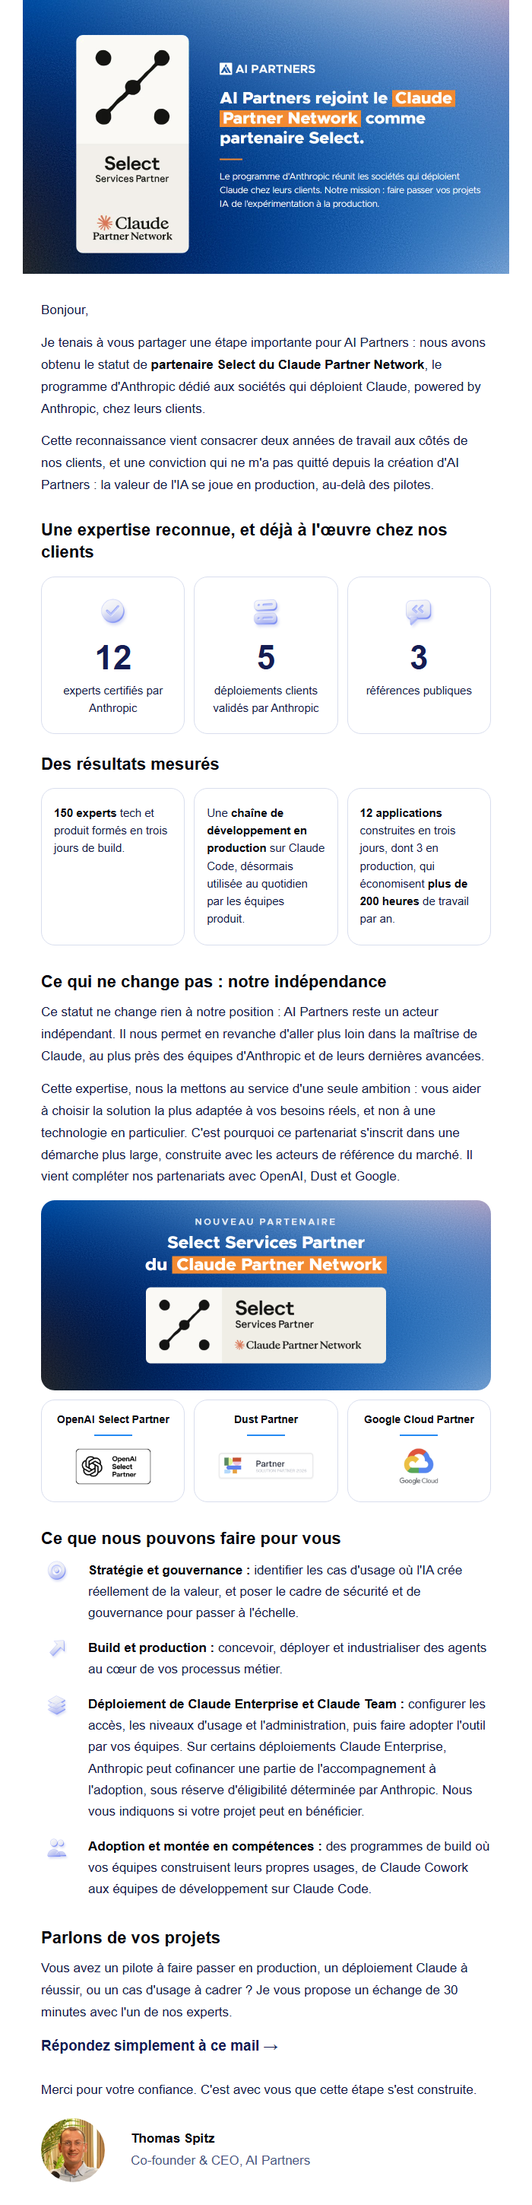
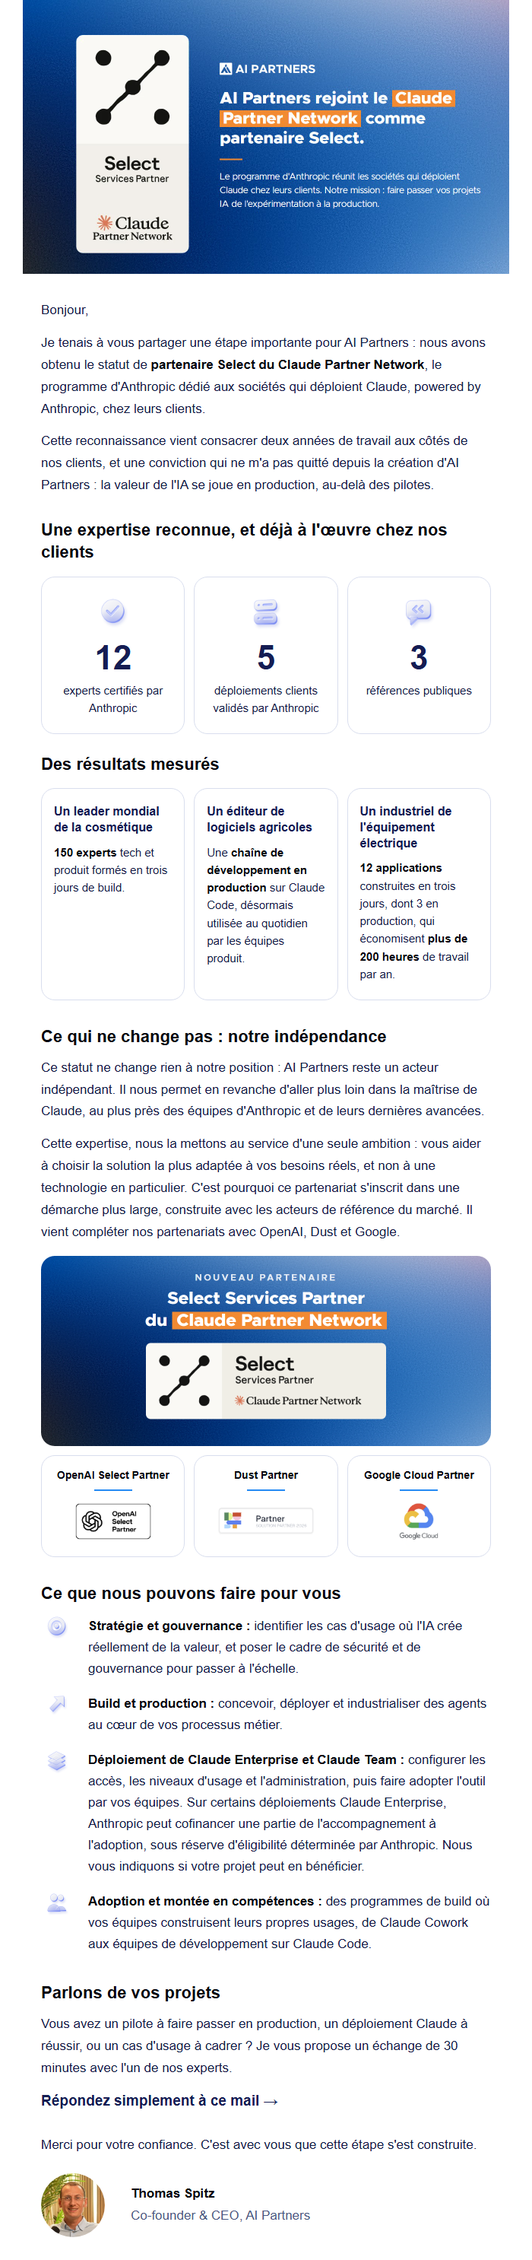
Mail d'annonce v2 : cas clients anonymisés par secteur (retour d'Arthur 16/11)

Changed region(s): [[0.06, 0.031, 0.93, 0.9934]]

diff --git a/PRESENTATIONS/2026-11_newsletter_anthropic_select/v2/email_hubspot_module.html b/PRESENTATIONS/2026-11_newsletter_anthropic_select/v2/email_hubspot_module.html
@@ -8,7 +8,7 @@
 <tr><td style="padding:0px 4px 12px 4px"><h2 style="margin:0;font-family:Helvetica, Arial, sans-serif;font-size:22px;line-height:1.3;font-weight:bold;color:#05070F">Une expertise reconnue, et déjà à l'œuvre chez nos clients</h2></td></tr>
 <tr><td style="padding:6px 4px 26px 4px"><table role="presentation" width="100%" cellpadding="0" cellspacing="0" style="border-collapse:separate"><tr><td valign="top" width="32%" align="center" bgcolor="#FFFFFF" style="width:32%;background-color:#FFFFFF;border:1px solid #D9DEEE;border-radius:18px;padding:18px 12px 22px 12px;text-align:center"><img src="https://arthurw31.github.io/ai-partners-podcast-content-machine/newsletters/anthropic-select/v2/verre_badge-check_72.png" width="56" height="56" alt="" style="display:block;border:0;width:56px;height:56px;margin:0 auto 10px auto"><div style="font-family:Helvetica, Arial, sans-serif;font-size:44px;line-height:1;font-weight:bold;color:#151D53">12</div><div style="padding-top:10px;font-family:Helvetica, Arial, sans-serif;font-size:15px;line-height:1.5;color:#141B45">experts certifiés par Anthropic</div></td><td width="2%" style="width:2%;font-size:0;line-height:0">&nbsp;</td><td valign="top" width="32%" align="center" bgcolor="#FFFFFF" style="width:32%;background-color:#FFFFFF;border:1px solid #D9DEEE;border-radius:18px;padding:18px 12px 22px 12px;text-align:center"><img src="https://arthurw31.github.io/ai-partners-podcast-content-machine/newsletters/anthropic-select/v2/verre_server_72.png" width="56" height="56" alt="" style="display:block;border:0;width:56px;height:56px;margin:0 auto 10px auto"><div style="font-family:Helvetica, Arial, sans-serif;font-size:44px;line-height:1;font-weight:bold;color:#151D53">5</div><div style="padding-top:10px;font-family:Helvetica, Arial, sans-serif;font-size:15px;line-height:1.5;color:#141B45">déploiements clients validés par Anthropic</div></td><td width="2%" style="width:2%;font-size:0;line-height:0">&nbsp;</td><td valign="top" width="32%" align="center" bgcolor="#FFFFFF" style="width:32%;background-color:#FFFFFF;border:1px solid #D9DEEE;border-radius:18px;padding:18px 12px 22px 12px;text-align:center"><img src="https://arthurw31.github.io/ai-partners-podcast-content-machine/newsletters/anthropic-select/v2/verre_message-square-quote_72.png" width="56" height="56" alt="" style="display:block;border:0;width:56px;height:56px;margin:0 auto 10px auto"><div style="font-family:Helvetica, Arial, sans-serif;font-size:44px;line-height:1;font-weight:bold;color:#151D53">3</div><div style="padding-top:10px;font-family:Helvetica, Arial, sans-serif;font-size:15px;line-height:1.5;color:#141B45">références publiques</div></td></tr></table></td></tr>
 <tr><td style="padding:0px 4px 12px 4px"><h2 style="margin:0;font-family:Helvetica, Arial, sans-serif;font-size:22px;line-height:1.3;font-weight:bold;color:#05070F">Des résultats mesurés</h2></td></tr>
-<tr><td style="padding:4px 4px 34px 4px"><table role="presentation" width="100%" cellpadding="0" cellspacing="0" style="border-collapse:separate"><tr><td valign="top" width="32%" bgcolor="#FFFFFF" style="width:32%;background-color:#FFFFFF;border:1px solid #D9DEEE;border-radius:18px;padding:20px 16px 22px 16px;font-family:Helvetica, Arial, sans-serif;font-size:15px;line-height:1.55;color:#141B45"><strong style="color:#05070F">150 experts</strong> tech et produit formés en trois jours de build.</td><td width="2%" style="width:2%;font-size:0;line-height:0">&nbsp;</td><td valign="top" width="32%" bgcolor="#FFFFFF" style="width:32%;background-color:#FFFFFF;border:1px solid #D9DEEE;border-radius:18px;padding:20px 16px 22px 16px;font-family:Helvetica, Arial, sans-serif;font-size:15px;line-height:1.55;color:#141B45">Une <strong style="color:#05070F">chaîne de développement en production</strong> sur Claude Code, désormais utilisée au quotidien par les équipes produit.</td><td width="2%" style="width:2%;font-size:0;line-height:0">&nbsp;</td><td valign="top" width="32%" bgcolor="#FFFFFF" style="width:32%;background-color:#FFFFFF;border:1px solid #D9DEEE;border-radius:18px;padding:20px 16px 22px 16px;font-family:Helvetica, Arial, sans-serif;font-size:15px;line-height:1.55;color:#141B45"><strong style="color:#05070F">12 applications</strong> construites en trois jours, dont 3 en production, qui économisent <strong style="color:#05070F">plus de 200 heures</strong> de travail par an.</td></tr></table></td></tr>
+<tr><td style="padding:4px 4px 34px 4px"><table role="presentation" width="100%" cellpadding="0" cellspacing="0" style="border-collapse:separate"><tr><td valign="top" width="32%" bgcolor="#FFFFFF" style="width:32%;background-color:#FFFFFF;border:1px solid #D9DEEE;border-radius:18px;padding:20px 16px 22px 16px;font-family:Helvetica, Arial, sans-serif;font-size:15px;line-height:1.55;color:#141B45"><div style="padding:0 0 10px 0;font-size:16px;line-height:1.3;font-weight:bold;color:#151D53">Un leader mondial de la cosmétique</div><strong style="color:#05070F">150 experts</strong> tech et produit formés en trois jours de build.</td><td width="2%" style="width:2%;font-size:0;line-height:0">&nbsp;</td><td valign="top" width="32%" bgcolor="#FFFFFF" style="width:32%;background-color:#FFFFFF;border:1px solid #D9DEEE;border-radius:18px;padding:20px 16px 22px 16px;font-family:Helvetica, Arial, sans-serif;font-size:15px;line-height:1.55;color:#141B45"><div style="padding:0 0 10px 0;font-size:16px;line-height:1.3;font-weight:bold;color:#151D53">Un éditeur de logiciels agricoles</div>Une <strong style="color:#05070F">chaîne de développement en production</strong> sur Claude Code, désormais utilisée au quotidien par les équipes produit.</td><td width="2%" style="width:2%;font-size:0;line-height:0">&nbsp;</td><td valign="top" width="32%" bgcolor="#FFFFFF" style="width:32%;background-color:#FFFFFF;border:1px solid #D9DEEE;border-radius:18px;padding:20px 16px 22px 16px;font-family:Helvetica, Arial, sans-serif;font-size:15px;line-height:1.55;color:#141B45"><div style="padding:0 0 10px 0;font-size:16px;line-height:1.3;font-weight:bold;color:#151D53">Un industriel de l'équipement électrique</div><strong style="color:#05070F">12 applications</strong> construites en trois jours, dont 3 en production, qui économisent <strong style="color:#05070F">plus de 200 heures</strong> de travail par an.</td></tr></table></td></tr>
 <tr><td style="padding:0px 4px 12px 4px"><h2 style="margin:0;font-family:Helvetica, Arial, sans-serif;font-size:22px;line-height:1.3;font-weight:bold;color:#05070F">Ce qui ne change pas&nbsp;: notre indépendance</h2></td></tr><tr><td style="padding:0 4px 14px 4px;font-family:Helvetica, Arial, sans-serif;font-size:17px;line-height:1.7;color:#141B45">Ce statut ne change rien à notre position&nbsp;: AI Partners reste un acteur indépendant. Il nous permet en revanche d'aller plus loin dans la maîtrise de Claude, au plus près des équipes d'Anthropic et de leurs dernières avancées.</td></tr><tr><td style="padding:0 4px 16px 4px;font-family:Helvetica, Arial, sans-serif;font-size:17px;line-height:1.7;color:#141B45">Cette expertise, nous la mettons au service d'une seule ambition&nbsp;: vous aider à choisir la solution la plus adaptée à vos besoins réels, et non à une technologie en particulier. C'est pourquoi ce partenariat s'inscrit dans une démarche plus large, construite avec les acteurs de référence du marché. Il vient compléter nos partenariats avec OpenAI, Dust et Google.</td></tr><tr><td style="padding:0 4px 34px 4px"><img src="https://arthurw31.github.io/ai-partners-podcast-content-machine/newsletters/anthropic-select/v2/encadre_nouveau_partenaire.png" width="592" height="250" alt="Nouveau partenaire : Select Services Partner du Claude Partner Network" style="display:block;border:0;width:592px;height:250px;width:100%;max-width:592px;height:auto"><div style="height:12px;font-size:0;line-height:0">&nbsp;</div><table role="presentation" width="100%" cellpadding="0" cellspacing="0" style="border-collapse:separate"><tr><td width="32%" valign="top" align="center" bgcolor="#FFFFFF" style="width:32%;border:1px solid #D9DEEE;border-radius:18px;padding:16px 6px 18px 6px;font-family:Helvetica, Arial, sans-serif;text-align:center"><div style="font-size:14px;line-height:1.3;font-weight:bold;color:#05070F">OpenAI Select Partner</div><table role="presentation" align="center" cellpadding="0" cellspacing="0" style="margin:10px auto 12px auto"><tr><td width="50" height="2" bgcolor="#258AF3" style="width:50px;height:2px;font-size:0;line-height:0">&nbsp;</td></tr></table><table role="presentation" align="center" cellpadding="0" cellspacing="0"><tr><td height="56" valign="middle" align="center" style="height:56px"><img src="https://arthurw31.github.io/ai-partners-podcast-content-machine/newsletters/anthropic-select/v2/partenaire_openai.png" width="106" height="54" alt="OpenAI Select Partner" style="display:block;border:0;width:106px;height:54px;"></td></tr></table></td><td width="2%" style="width:2%;font-size:0;line-height:0">&nbsp;</td><td width="32%" valign="top" align="center" bgcolor="#FFFFFF" style="width:32%;border:1px solid #D9DEEE;border-radius:18px;padding:16px 6px 18px 6px;font-family:Helvetica, Arial, sans-serif;text-align:center"><div style="font-size:14px;line-height:1.3;font-weight:bold;color:#05070F">Dust Partner</div><table role="presentation" align="center" cellpadding="0" cellspacing="0" style="margin:10px auto 12px auto"><tr><td width="50" height="2" bgcolor="#258AF3" style="width:50px;height:2px;font-size:0;line-height:0">&nbsp;</td></tr></table><table role="presentation" align="center" cellpadding="0" cellspacing="0"><tr><td height="56" valign="middle" align="center" style="height:56px"><img src="https://arthurw31.github.io/ai-partners-podcast-content-machine/newsletters/anthropic-select/v2/partenaire_dust.png" width="130" height="39" alt="Dust Partner" style="display:block;border:0;width:130px;height:39px;"></td></tr></table></td><td width="2%" style="width:2%;font-size:0;line-height:0">&nbsp;</td><td width="32%" valign="top" align="center" bgcolor="#FFFFFF" style="width:32%;border:1px solid #D9DEEE;border-radius:18px;padding:16px 6px 18px 6px;font-family:Helvetica, Arial, sans-serif;text-align:center"><div style="font-size:14px;line-height:1.3;font-weight:bold;color:#05070F">Google Cloud Partner</div><table role="presentation" align="center" cellpadding="0" cellspacing="0" style="margin:10px auto 12px auto"><tr><td width="50" height="2" bgcolor="#258AF3" style="width:50px;height:2px;font-size:0;line-height:0">&nbsp;</td></tr></table><table role="presentation" align="center" cellpadding="0" cellspacing="0"><tr><td height="56" valign="middle" align="center" style="height:56px"><img src="https://arthurw31.github.io/ai-partners-podcast-content-machine/newsletters/anthropic-select/v2/partenaire_google.png" width="58" height="56" alt="Google Cloud Partner" style="display:block;border:0;width:58px;height:56px;"></td></tr></table></td></tr></table></td></tr>
 <tr><td style="padding:0px 4px 12px 4px"><h2 style="margin:0;font-family:Helvetica, Arial, sans-serif;font-size:22px;line-height:1.3;font-weight:bold;color:#05070F">Ce que nous pouvons faire pour vous</h2></td></tr>
 <tr><td style="padding:0 4px 26px 4px"><table role="presentation" width="100%" cellpadding="0" cellspacing="0"><tr><td style="padding:2px 0 2px 0;font-family:Helvetica, Arial, sans-serif;font-size:17px;line-height:1.65;color:#141B45"><table role="presentation" width="100%" cellpadding="0" cellspacing="0"><tr><td valign="top" width="52" style="width:52px;padding:0 10px 0 0"><img src="https://arthurw31.github.io/ai-partners-podcast-content-machine/newsletters/anthropic-select/v2/verre_target_42.png" width="42" height="42" alt="" style="display:block;border:0;width:42px;height:42px;margin-top:-6px"></td><td valign="top" style="padding:0 0 18px 0;font-family:Helvetica, Arial, sans-serif;font-size:17px;line-height:1.65;color:#141B45"><strong style="color:#05070F">Stratégie et gouvernance&nbsp;:</strong> identifier les cas d'usage où l'IA crée réellement de la valeur, et poser le cadre de sécurité et de gouvernance pour passer à l'échelle.</td></tr></table><table role="presentation" width="100%" cellpadding="0" cellspacing="0"><tr><td valign="top" width="52" style="width:52px;padding:0 10px 0 0"><img src="https://arthurw31.github.io/ai-partners-podcast-content-machine/newsletters/anthropic-select/v2/verre_rocket_42.png" width="42" height="42" alt="" style="display:block;border:0;width:42px;height:42px;margin-top:-6px"></td><td valign="top" style="padding:0 0 18px 0;font-family:Helvetica, Arial, sans-serif;font-size:17px;line-height:1.65;color:#141B45"><strong style="color:#05070F">Build et production&nbsp;:</strong> concevoir, déployer et industrialiser des agents au cœur de vos processus métier.</td></tr></table><table role="presentation" width="100%" cellpadding="0" cellspacing="0"><tr><td valign="top" width="52" style="width:52px;padding:0 10px 0 0"><img src="https://arthurw31.github.io/ai-partners-podcast-content-machine/newsletters/anthropic-select/v2/verre_layers_42.png" width="42" height="42" alt="" style="display:block;border:0;width:42px;height:42px;margin-top:-6px"></td><td valign="top" style="padding:0 0 18px 0;font-family:Helvetica, Arial, sans-serif;font-size:17px;line-height:1.65;color:#141B45"><strong style="color:#05070F">Déploiement de Claude Enterprise et Claude Team&nbsp;:</strong> configurer les accès, les niveaux d'usage et l'administration, puis faire adopter l'outil par vos équipes. Sur certains déploiements Claude Enterprise, Anthropic peut cofinancer une partie de l'accompagnement à l'adoption, sous réserve d'éligibilité déterminée par Anthropic. Nous vous indiquons si votre projet peut en bénéficier.</td></tr></table><table role="presentation" width="100%" cellpadding="0" cellspacing="0"><tr><td valign="top" width="52" style="width:52px;padding:0 10px 0 0"><img src="https://arthurw31.github.io/ai-partners-podcast-content-machine/newsletters/anthropic-select/v2/verre_users_42.png" width="42" height="42" alt="" style="display:block;border:0;width:42px;height:42px;margin-top:-6px"></td><td valign="top" style="padding:0 0 0 0;font-family:Helvetica, Arial, sans-serif;font-size:17px;line-height:1.65;color:#141B45"><strong style="color:#05070F">Adoption et montée en compétences&nbsp;:</strong> des programmes de build où vos équipes construisent leurs propres usages, de Claude Cowork aux équipes de développement sur Claude Code.</td></tr></table></td></tr></table></td></tr>

diff --git a/PRESENTATIONS/2026-11_newsletter_anthropic_select/v2/email.html b/PRESENTATIONS/2026-11_newsletter_anthropic_select/v2/email.html
@@ -12,7 +12,7 @@
 <tr><td style="padding:0px 4px 12px 4px"><h2 style="margin:0;font-family:Helvetica, Arial, sans-serif;font-size:22px;line-height:1.3;font-weight:bold;color:#05070F">Une expertise reconnue, et déjà à l'œuvre chez nos clients</h2></td></tr>
 <tr><td style="padding:6px 4px 26px 4px"><table role="presentation" width="100%" cellpadding="0" cellspacing="0" style="border-collapse:separate"><tr><td valign="top" width="32%" align="center" bgcolor="#FFFFFF" style="width:32%;background-color:#FFFFFF;border:1px solid #D9DEEE;border-radius:18px;padding:18px 12px 22px 12px;text-align:center"><img src="images/verre_badge-check_72.png" width="56" height="56" alt="" style="display:block;border:0;width:56px;height:56px;margin:0 auto 10px auto"><div style="font-family:Helvetica, Arial, sans-serif;font-size:44px;line-height:1;font-weight:bold;color:#151D53">12</div><div style="padding-top:10px;font-family:Helvetica, Arial, sans-serif;font-size:15px;line-height:1.5;color:#141B45">experts certifiés par Anthropic</div></td><td width="2%" style="width:2%;font-size:0;line-height:0">&nbsp;</td><td valign="top" width="32%" align="center" bgcolor="#FFFFFF" style="width:32%;background-color:#FFFFFF;border:1px solid #D9DEEE;border-radius:18px;padding:18px 12px 22px 12px;text-align:center"><img src="images/verre_server_72.png" width="56" height="56" alt="" style="display:block;border:0;width:56px;height:56px;margin:0 auto 10px auto"><div style="font-family:Helvetica, Arial, sans-serif;font-size:44px;line-height:1;font-weight:bold;color:#151D53">5</div><div style="padding-top:10px;font-family:Helvetica, Arial, sans-serif;font-size:15px;line-height:1.5;color:#141B45">déploiements clients validés par Anthropic</div></td><td width="2%" style="width:2%;font-size:0;line-height:0">&nbsp;</td><td valign="top" width="32%" align="center" bgcolor="#FFFFFF" style="width:32%;background-color:#FFFFFF;border:1px solid #D9DEEE;border-radius:18px;padding:18px 12px 22px 12px;text-align:center"><img src="images/verre_message-square-quote_72.png" width="56" height="56" alt="" style="display:block;border:0;width:56px;height:56px;margin:0 auto 10px auto"><div style="font-family:Helvetica, Arial, sans-serif;font-size:44px;line-height:1;font-weight:bold;color:#151D53">3</div><div style="padding-top:10px;font-family:Helvetica, Arial, sans-serif;font-size:15px;line-height:1.5;color:#141B45">références publiques</div></td></tr></table></td></tr>
 <tr><td style="padding:0px 4px 12px 4px"><h2 style="margin:0;font-family:Helvetica, Arial, sans-serif;font-size:22px;line-height:1.3;font-weight:bold;color:#05070F">Des résultats mesurés</h2></td></tr>
-<tr><td style="padding:4px 4px 34px 4px"><table role="presentation" width="100%" cellpadding="0" cellspacing="0" style="border-collapse:separate"><tr><td valign="top" width="32%" bgcolor="#FFFFFF" style="width:32%;background-color:#FFFFFF;border:1px solid #D9DEEE;border-radius:18px;padding:20px 16px 22px 16px;font-family:Helvetica, Arial, sans-serif;font-size:15px;line-height:1.55;color:#141B45"><strong style="color:#05070F">150 experts</strong> tech et produit formés en trois jours de build.</td><td width="2%" style="width:2%;font-size:0;line-height:0">&nbsp;</td><td valign="top" width="32%" bgcolor="#FFFFFF" style="width:32%;background-color:#FFFFFF;border:1px solid #D9DEEE;border-radius:18px;padding:20px 16px 22px 16px;font-family:Helvetica, Arial, sans-serif;font-size:15px;line-height:1.55;color:#141B45">Une <strong style="color:#05070F">chaîne de développement en production</strong> sur Claude Code, désormais utilisée au quotidien par les équipes produit.</td><td width="2%" style="width:2%;font-size:0;line-height:0">&nbsp;</td><td valign="top" width="32%" bgcolor="#FFFFFF" style="width:32%;background-color:#FFFFFF;border:1px solid #D9DEEE;border-radius:18px;padding:20px 16px 22px 16px;font-family:Helvetica, Arial, sans-serif;font-size:15px;line-height:1.55;color:#141B45"><strong style="color:#05070F">12 applications</strong> construites en trois jours, dont 3 en production, qui économisent <strong style="color:#05070F">plus de 200 heures</strong> de travail par an.</td></tr></table></td></tr>
+<tr><td style="padding:4px 4px 34px 4px"><table role="presentation" width="100%" cellpadding="0" cellspacing="0" style="border-collapse:separate"><tr><td valign="top" width="32%" bgcolor="#FFFFFF" style="width:32%;background-color:#FFFFFF;border:1px solid #D9DEEE;border-radius:18px;padding:20px 16px 22px 16px;font-family:Helvetica, Arial, sans-serif;font-size:15px;line-height:1.55;color:#141B45"><div style="padding:0 0 10px 0;font-size:16px;line-height:1.3;font-weight:bold;color:#151D53">Un leader mondial de la cosmétique</div><strong style="color:#05070F">150 experts</strong> tech et produit formés en trois jours de build.</td><td width="2%" style="width:2%;font-size:0;line-height:0">&nbsp;</td><td valign="top" width="32%" bgcolor="#FFFFFF" style="width:32%;background-color:#FFFFFF;border:1px solid #D9DEEE;border-radius:18px;padding:20px 16px 22px 16px;font-family:Helvetica, Arial, sans-serif;font-size:15px;line-height:1.55;color:#141B45"><div style="padding:0 0 10px 0;font-size:16px;line-height:1.3;font-weight:bold;color:#151D53">Un éditeur de logiciels agricoles</div>Une <strong style="color:#05070F">chaîne de développement en production</strong> sur Claude Code, désormais utilisée au quotidien par les équipes produit.</td><td width="2%" style="width:2%;font-size:0;line-height:0">&nbsp;</td><td valign="top" width="32%" bgcolor="#FFFFFF" style="width:32%;background-color:#FFFFFF;border:1px solid #D9DEEE;border-radius:18px;padding:20px 16px 22px 16px;font-family:Helvetica, Arial, sans-serif;font-size:15px;line-height:1.55;color:#141B45"><div style="padding:0 0 10px 0;font-size:16px;line-height:1.3;font-weight:bold;color:#151D53">Un industriel de l'équipement électrique</div><strong style="color:#05070F">12 applications</strong> construites en trois jours, dont 3 en production, qui économisent <strong style="color:#05070F">plus de 200 heures</strong> de travail par an.</td></tr></table></td></tr>
 <tr><td style="padding:0px 4px 12px 4px"><h2 style="margin:0;font-family:Helvetica, Arial, sans-serif;font-size:22px;line-height:1.3;font-weight:bold;color:#05070F">Ce qui ne change pas&nbsp;: notre indépendance</h2></td></tr><tr><td style="padding:0 4px 14px 4px;font-family:Helvetica, Arial, sans-serif;font-size:17px;line-height:1.7;color:#141B45">Ce statut ne change rien à notre position&nbsp;: AI Partners reste un acteur indépendant. Il nous permet en revanche d'aller plus loin dans la maîtrise de Claude, au plus près des équipes d'Anthropic et de leurs dernières avancées.</td></tr><tr><td style="padding:0 4px 16px 4px;font-family:Helvetica, Arial, sans-serif;font-size:17px;line-height:1.7;color:#141B45">Cette expertise, nous la mettons au service d'une seule ambition&nbsp;: vous aider à choisir la solution la plus adaptée à vos besoins réels, et non à une technologie en particulier. C'est pourquoi ce partenariat s'inscrit dans une démarche plus large, construite avec les acteurs de référence du marché. Il vient compléter nos partenariats avec OpenAI, Dust et Google.</td></tr><tr><td style="padding:0 4px 34px 4px"><img src="images/encadre_nouveau_partenaire.png" width="592" height="250" alt="Nouveau partenaire : Select Services Partner du Claude Partner Network" style="display:block;border:0;width:592px;height:250px;width:100%;max-width:592px;height:auto"><div style="height:12px;font-size:0;line-height:0">&nbsp;</div><table role="presentation" width="100%" cellpadding="0" cellspacing="0" style="border-collapse:separate"><tr><td width="32%" valign="top" align="center" bgcolor="#FFFFFF" style="width:32%;border:1px solid #D9DEEE;border-radius:18px;padding:16px 6px 18px 6px;font-family:Helvetica, Arial, sans-serif;text-align:center"><div style="font-size:14px;line-height:1.3;font-weight:bold;color:#05070F">OpenAI Select Partner</div><table role="presentation" align="center" cellpadding="0" cellspacing="0" style="margin:10px auto 12px auto"><tr><td width="50" height="2" bgcolor="#258AF3" style="width:50px;height:2px;font-size:0;line-height:0">&nbsp;</td></tr></table><table role="presentation" align="center" cellpadding="0" cellspacing="0"><tr><td height="56" valign="middle" align="center" style="height:56px"><img src="images/partenaire_openai.png" width="106" height="54" alt="OpenAI Select Partner" style="display:block;border:0;width:106px;height:54px;"></td></tr></table></td><td width="2%" style="width:2%;font-size:0;line-height:0">&nbsp;</td><td width="32%" valign="top" align="center" bgcolor="#FFFFFF" style="width:32%;border:1px solid #D9DEEE;border-radius:18px;padding:16px 6px 18px 6px;font-family:Helvetica, Arial, sans-serif;text-align:center"><div style="font-size:14px;line-height:1.3;font-weight:bold;color:#05070F">Dust Partner</div><table role="presentation" align="center" cellpadding="0" cellspacing="0" style="margin:10px auto 12px auto"><tr><td width="50" height="2" bgcolor="#258AF3" style="width:50px;height:2px;font-size:0;line-height:0">&nbsp;</td></tr></table><table role="presentation" align="center" cellpadding="0" cellspacing="0"><tr><td height="56" valign="middle" align="center" style="height:56px"><img src="images/partenaire_dust.png" width="130" height="39" alt="Dust Partner" style="display:block;border:0;width:130px;height:39px;"></td></tr></table></td><td width="2%" style="width:2%;font-size:0;line-height:0">&nbsp;</td><td width="32%" valign="top" align="center" bgcolor="#FFFFFF" style="width:32%;border:1px solid #D9DEEE;border-radius:18px;padding:16px 6px 18px 6px;font-family:Helvetica, Arial, sans-serif;text-align:center"><div style="font-size:14px;line-height:1.3;font-weight:bold;color:#05070F">Google Cloud Partner</div><table role="presentation" align="center" cellpadding="0" cellspacing="0" style="margin:10px auto 12px auto"><tr><td width="50" height="2" bgcolor="#258AF3" style="width:50px;height:2px;font-size:0;line-height:0">&nbsp;</td></tr></table><table role="presentation" align="center" cellpadding="0" cellspacing="0"><tr><td height="56" valign="middle" align="center" style="height:56px"><img src="images/partenaire_google.png" width="58" height="56" alt="Google Cloud Partner" style="display:block;border:0;width:58px;height:56px;"></td></tr></table></td></tr></table></td></tr>
 <tr><td style="padding:0px 4px 12px 4px"><h2 style="margin:0;font-family:Helvetica, Arial, sans-serif;font-size:22px;line-height:1.3;font-weight:bold;color:#05070F">Ce que nous pouvons faire pour vous</h2></td></tr>
 <tr><td style="padding:0 4px 26px 4px"><table role="presentation" width="100%" cellpadding="0" cellspacing="0"><tr><td style="padding:2px 0 2px 0;font-family:Helvetica, Arial, sans-serif;font-size:17px;line-height:1.65;color:#141B45"><table role="presentation" width="100%" cellpadding="0" cellspacing="0"><tr><td valign="top" width="52" style="width:52px;padding:0 10px 0 0"><img src="images/verre_target_42.png" width="42" height="42" alt="" style="display:block;border:0;width:42px;height:42px;margin-top:-6px"></td><td valign="top" style="padding:0 0 18px 0;font-family:Helvetica, Arial, sans-serif;font-size:17px;line-height:1.65;color:#141B45"><strong style="color:#05070F">Stratégie et gouvernance&nbsp;:</strong> identifier les cas d'usage où l'IA crée réellement de la valeur, et poser le cadre de sécurité et de gouvernance pour passer à l'échelle.</td></tr></table><table role="presentation" width="100%" cellpadding="0" cellspacing="0"><tr><td valign="top" width="52" style="width:52px;padding:0 10px 0 0"><img src="images/verre_rocket_42.png" width="42" height="42" alt="" style="display:block;border:0;width:42px;height:42px;margin-top:-6px"></td><td valign="top" style="padding:0 0 18px 0;font-family:Helvetica, Arial, sans-serif;font-size:17px;line-height:1.65;color:#141B45"><strong style="color:#05070F">Build et production&nbsp;:</strong> concevoir, déployer et industrialiser des agents au cœur de vos processus métier.</td></tr></table><table role="presentation" width="100%" cellpadding="0" cellspacing="0"><tr><td valign="top" width="52" style="width:52px;padding:0 10px 0 0"><img src="images/verre_layers_42.png" width="42" height="42" alt="" style="display:block;border:0;width:42px;height:42px;margin-top:-6px"></td><td valign="top" style="padding:0 0 18px 0;font-family:Helvetica, Arial, sans-serif;font-size:17px;line-height:1.65;color:#141B45"><strong style="color:#05070F">Déploiement de Claude Enterprise et Claude Team&nbsp;:</strong> configurer les accès, les niveaux d'usage et l'administration, puis faire adopter l'outil par vos équipes. Sur certains déploiements Claude Enterprise, Anthropic peut cofinancer une partie de l'accompagnement à l'adoption, sous réserve d'éligibilité déterminée par Anthropic. Nous vous indiquons si votre projet peut en bénéficier.</td></tr></table><table role="presentation" width="100%" cellpadding="0" cellspacing="0"><tr><td valign="top" width="52" style="width:52px;padding:0 10px 0 0"><img src="images/verre_users_42.png" width="42" height="42" alt="" style="display:block;border:0;width:42px;height:42px;margin-top:-6px"></td><td valign="top" style="padding:0 0 0 0;font-family:Helvetica, Arial, sans-serif;font-size:17px;line-height:1.65;color:#141B45"><strong style="color:#05070F">Adoption et montée en compétences&nbsp;:</strong> des programmes de build où vos équipes construisent leurs propres usages, de Claude Cowork aux équipes de développement sur Claude Code.</td></tr></table></td></tr></table></td></tr>

diff --git a/PRESENTATIONS/2026-11_newsletter_anthropic_select/v2/build_v2.py b/PRESENTATIONS/2026-11_newsletter_anthropic_select/v2/build_v2.py
@@ -73,14 +73,16 @@ def card(top: str, title: str, text: str) -> str:
 
 def clients() -> str:
     # ni logo ni nom de client (retours du 16/11/2026) : le résultat seul, son chiffre en gras
-    texts = [strong("150 experts") + " tech et produit formés en trois jours de build.",
-             "Une " + strong("chaîne de développement en production") + " sur Claude Code, désormais utilisée au quotidien par les "
-             "équipes produit.",
-             strong("12 applications") + " construites en trois jours, dont 3 en production, qui économisent " + strong("plus de 200 "
-             "heures") + " de travail par an."]
+    # clients ANONYMISÉS : « une entreprise de tel secteur » à la place du nom et du logo (Arthur, 16/11/2026)
+    texts = [("Un leader mondial de la cosmétique", strong("150 experts") + " tech et produit formés en trois jours de build."),
+             ("Un éditeur de logiciels agricoles", "Une " + strong("chaîne de développement en production") + " sur Claude Code, "
+              "désormais utilisée au quotidien par les équipes produit."),
+             ("Un industriel de l'équipement électrique", strong("12 applications") + " construites en trois jours, dont 3 en "
+              "production, qui économisent " + strong("plus de 200 heures") + " de travail par an.")]
     cells = GAP.join(f'<td valign="top" width="32%" bgcolor="#FFFFFF" style="width:32%;background-color:#FFFFFF;border:1px solid {BORDER};'
-                     f'border-radius:18px;padding:20px 16px 22px 16px;{F};font-size:15px;line-height:1.55;color:{TEXT}">{t}</td>'
-                     for t in texts)
+                     f'border-radius:18px;padding:20px 16px 22px 16px;{F};font-size:15px;line-height:1.55;color:{TEXT}">'
+                     f'<div style="padding:0 0 10px 0;font-size:16px;line-height:1.3;font-weight:bold;color:{NAVY}">{who}</div>{t}</td>'
+                     for who, t in texts)
     return (f'<tr><td style="padding:4px 4px 34px 4px"><table role="presentation" width="100%" cellpadding="0" cellspacing="0" '
             f'style="border-collapse:separate"><tr>{cells}</tr></table></td></tr>')
 
